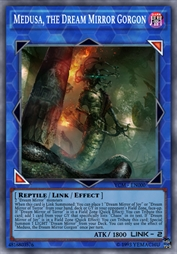
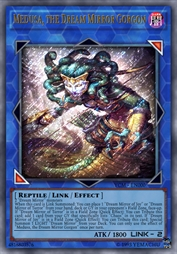
Fixed Medusa's NSFW Breasts - Removed Nyx from the Dream Mirror Support

diff --git a/README.md b/README.md
@@ -6,7 +6,6 @@ Custom cards designed for EDOPro. These cards were created specifically for the 
 * Dream Mirror
     * Medusa, the Dream Mirror Gorgon
     * Aphrodite, the Dream Mirror Beauty
-    * Nyx, the Dream Mirror Shadow
 * Photon/Galaxy-Eyes
     * Galaxy-Eyes Alternative Photon Dragon
     * Starseeker
